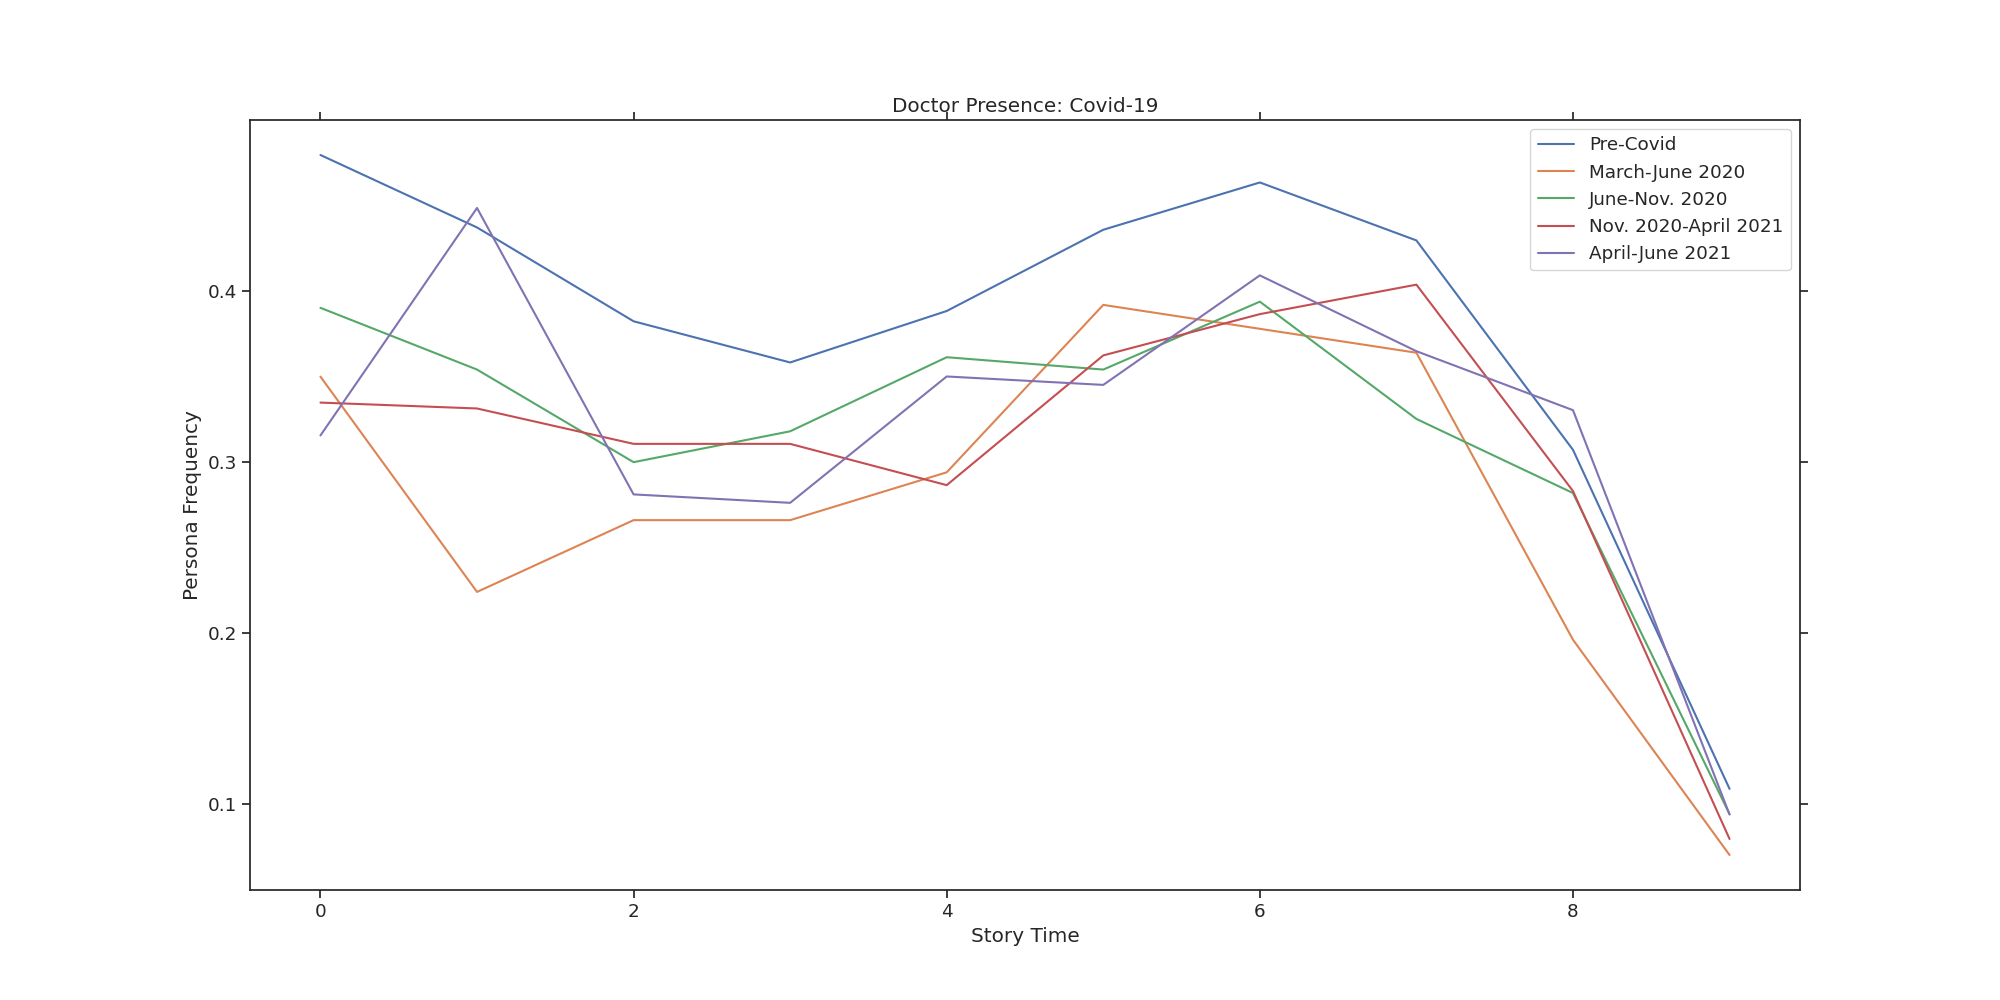
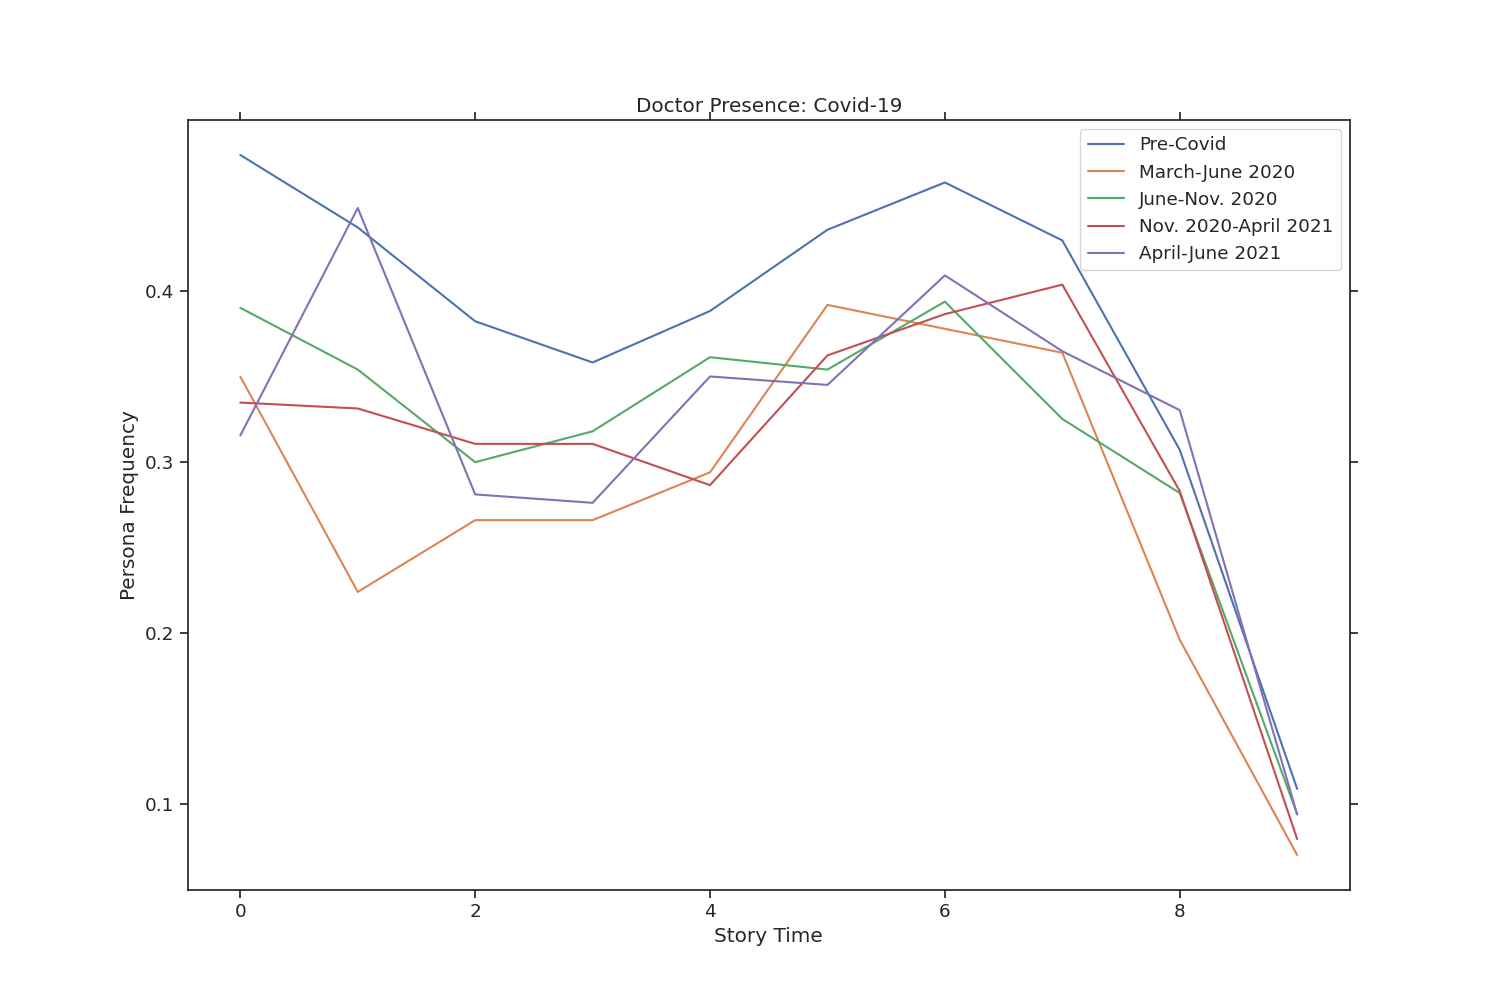
updates to persona thru covid

diff --git a/src/posts_per_month_during_covid.py b/src/posts_per_month_during_covid.py
@@ -13,32 +13,28 @@ def pandemic_eras(series, start_date, end_date):
 		else:
 			return False
 
-def main():
-	post_covid_posts_df = im.post_covid_posts_df
+post_covid_posts_df = im.post_covid_posts_df
 
-	post_covid_posts_df['Date Created'] = im.pd.to_datetime(post_covid_posts_df['Date'])
-	post_covid_posts_df['year-month'] = post_covid_posts_df['Date Created'].dt.to_period('M')
-	post_covid_posts_df.drop(columns=['Date Created', 'Date'], inplace=True)
+post_covid_posts_df['Date Created'] = im.pd.to_datetime(post_covid_posts_df['Date'])
+post_covid_posts_df['year-month'] = post_covid_posts_df['Date Created'].dt.to_period('M')
+post_covid_posts_df.drop(columns=['Date Created', 'Date'], inplace=True)
 
-	#generates bar graph of number of posts made each month of the pandemic
+#generates bar graph of number of posts made each month of the pandemic
 
-	#posts_per_month = post_covid_posts_df['year-month'].value_counts()
-	#fig = im.plt.figure(figsize=(20,10))
-	#posts_per_month.sort_index().plot.bar()
-	#fig.suptitle('Posts per Month of Covid')
-	#fig.savefig('../data/Posts_per_Month_Covid_bar.png')
+#posts_per_month = post_covid_posts_df['year-month'].value_counts()
+#fig = im.plt.figure(figsize=(20,10))
+#posts_per_month.sort_index().plot.bar()
+#fig.suptitle('Posts per Month of Covid')
+#fig.savefig('../data/Posts_per_Month_Covid_bar.png')
 
-	#splits df into four eras of covid
+#splits df into four eras of covid
 
-	post_covid_posts_df['Mar 11-June 1 2020'] = post_covid_posts_df['year-month'].apply(lambda x: pandemic_eras(x, '2020-03', '2020-06'))
-	post_covid_posts_df['June 1-Nov 1 2020'] = post_covid_posts_df['year-month'].apply(lambda x: pandemic_eras(x, '2020-06', '2020-11'))
-	post_covid_posts_df['Nov 1 2020-Apr 1 2021'] = post_covid_posts_df['year-month'].apply(lambda x: pandemic_eras(x, '2020-11', '2021-04'))
-	post_covid_posts_df['Apr 1-June 24 2021'] = post_covid_posts_df['year-month'].apply(lambda x: pandemic_eras(x, '2021-04', '2021-06'))
+post_covid_posts_df['Mar 11-June 1 2020'] = post_covid_posts_df['year-month'].apply(lambda x: pandemic_eras(x, '2020-03', '2020-06'))
+post_covid_posts_df['June 1-Nov 1 2020'] = post_covid_posts_df['year-month'].apply(lambda x: pandemic_eras(x, '2020-06', '2020-11'))
+post_covid_posts_df['Nov 1 2020-Apr 1 2021'] = post_covid_posts_df['year-month'].apply(lambda x: pandemic_eras(x, '2020-11', '2021-04'))
+post_covid_posts_df['Apr 1-June 24 2021'] = post_covid_posts_df['year-month'].apply(lambda x: pandemic_eras(x, '2021-04', '2021-06'))
 
-	mar_june_2020_df = post_covid_posts_df.get(post_covid_posts_df['Mar 11-June 1 2020']==True).get(['year-month','title', 'selftext'])
-	june_nov_2020_df = post_covid_posts_df.get(post_covid_posts_df['June 1-Nov 1 2020']==True).get(['year-month','title', 'selftext'])
-	nov_2020_apr_2021_df = post_covid_posts_df.get(post_covid_posts_df['Nov 1 2020-Apr 1 2021']==True).get(['year-month','title', 'selftext'])
-	apr_june_2021_df = post_covid_posts_df.get(post_covid_posts_df['Apr 1-June 24 2021']==True).get(['year-month','title', 'selftext'])
-
-if __name__ == "__main__":
-    main()
+mar_june_2020_df = post_covid_posts_df.get(post_covid_posts_df['Mar 11-June 1 2020']==True).get(['year-month','title', 'selftext'])
+june_nov_2020_df = post_covid_posts_df.get(post_covid_posts_df['June 1-Nov 1 2020']==True).get(['year-month','title', 'selftext'])
+nov_2020_apr_2021_df = post_covid_posts_df.get(post_covid_posts_df['Nov 1 2020-Apr 1 2021']==True).get(['year-month','title', 'selftext'])
+apr_june_2021_df = post_covid_posts_df.get(post_covid_posts_df['Apr 1-June 24 2021']==True).get(['year-month','title', 'selftext'])

diff --git a/src/Personas.py b/src/Personas.py
@@ -41,7 +41,7 @@ def count_chunks(series, dc):
     return mentions
 
 def make_plots(pre_df, m_j_df, j_n_df, n_a_df, a_j_df):
-    fig = im.plt.figure(figsize=(20,10))
+    fig = im.plt.figure(figsize=(15,10))
     ax = fig.add_subplot(111)
     for i in range(pre_df.shape[1]):
         ax.clear()
@@ -55,7 +55,7 @@ def make_plots(pre_df, m_j_df, j_n_df, n_a_df, a_j_df):
         ax.set_xlabel('Story Time')
         ax.set_ylabel('Persona Frequency')
         ax.legend()
-        fig.savefig(f'{persona_label}_throughout_covid_frequency.png')
+        fig.savefig(f'../data/Personas_Throughout_Covid/{persona_label}_throughout_covid_frequency.png')
 
 def main():
 
